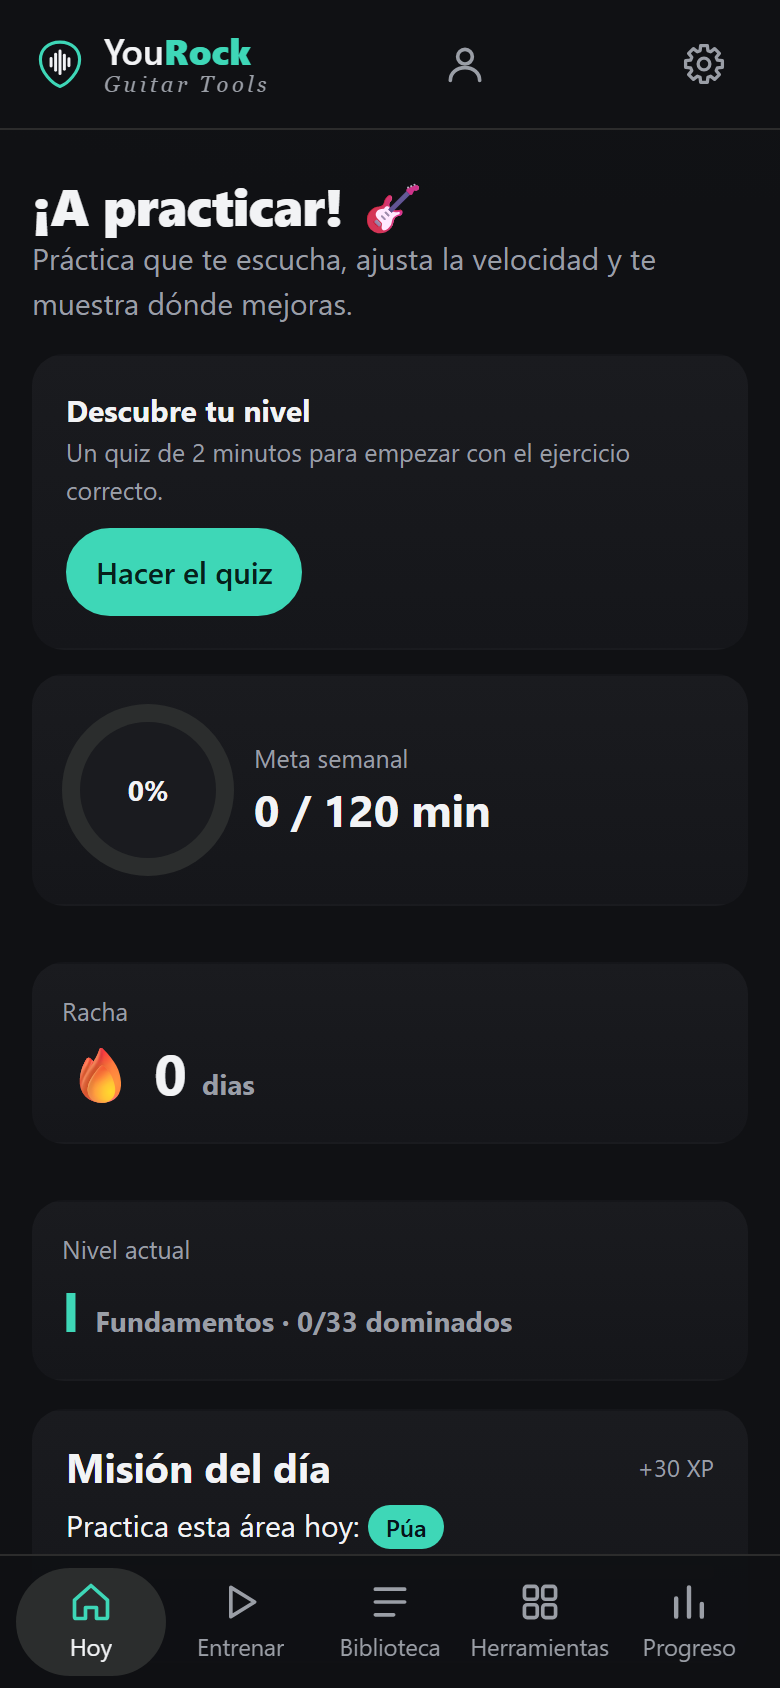
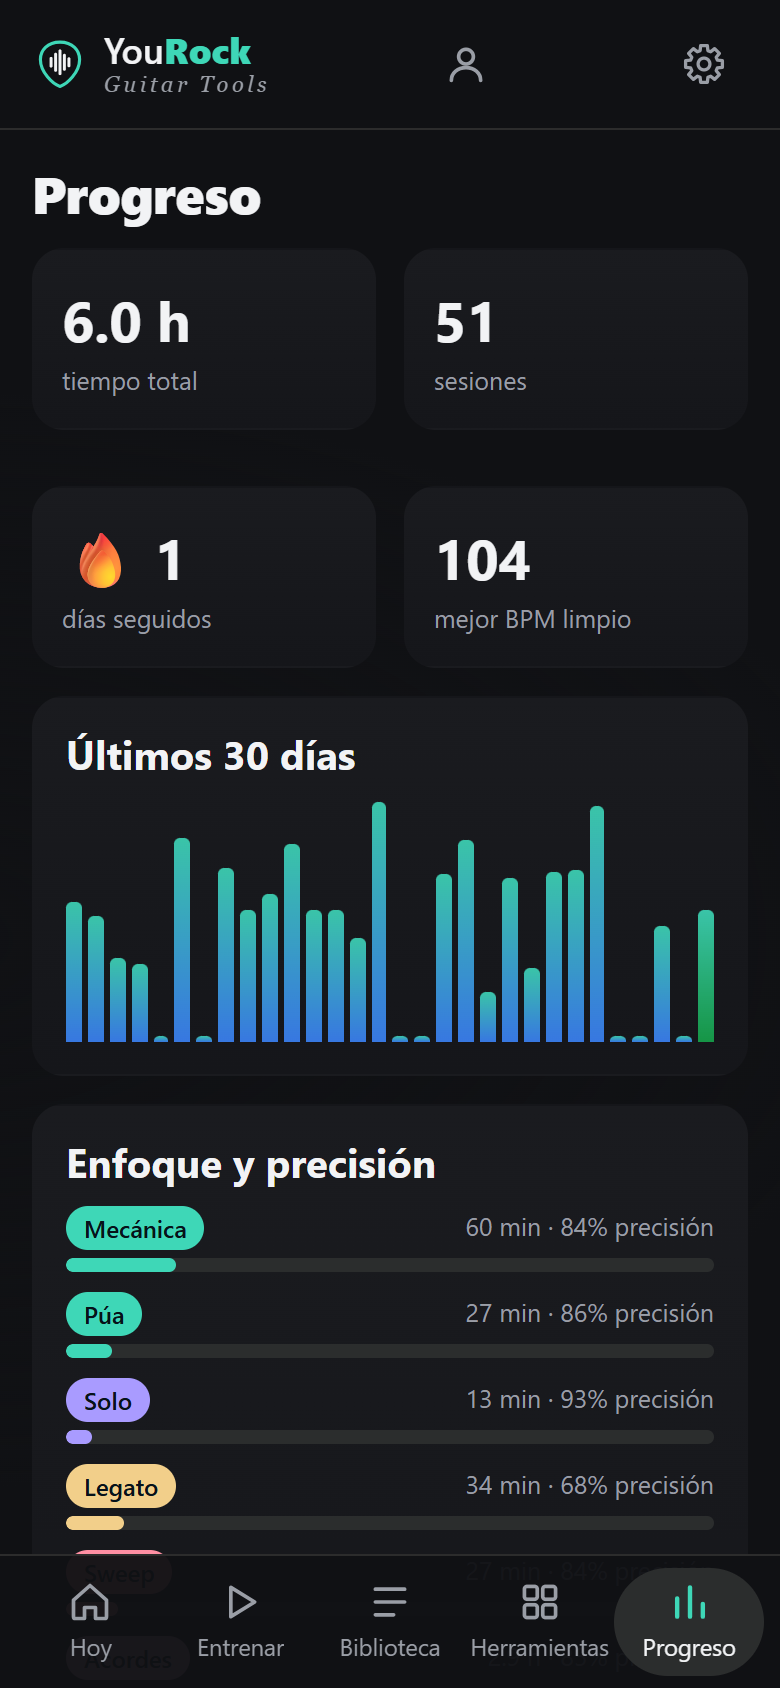
Landing YouRock: capturas corretas de Biblioteca e Progreso, botão play nos vídeos

diff --git a/yourock/landing/index.html b/yourock/landing/index.html
@@ -148,7 +148,11 @@ a:focus-visible,button:focus-visible,summary:focus-visible{outline:2px solid var
 .shots{display:grid;gap:16px;margin-top:40px;grid-template-columns:1fr}
 @media(min-width:768px){.shots{grid-template-columns:repeat(2,1fr);gap:24px}}
 @media(min-width:1024px){.shots{grid-template-columns:repeat(4,1fr)}}
-.phone video{display:block;width:100%;height:auto;border-radius:16px;background:var(--s2)}
+.phone video{display:block;width:100%;height:auto;border-radius:16px;background:var(--s2);cursor:pointer}
+.vwrap{position:relative}
+.vbtn{position:absolute;right:12px;bottom:12px;width:44px;height:44px;border-radius:9999px;border:1px solid var(--s4);background:rgba(24,24,24,.8);-webkit-backdrop-filter:blur(8px);backdrop-filter:blur(8px);color:var(--tx);display:grid;place-items:center;cursor:pointer;transition:transform .5s var(--ease),background-color .3s var(--ease)}
+.vbtn:hover{background:var(--s3);transform:scale(1.05)}
+.vbtn:active{transform:scale(.98)}
 .shots .phone{max-width:280px}
 .shots figcaption{margin-top:12px;text-align:center;color:var(--mu)}
 
@@ -443,6 +447,18 @@ const io = new IntersectionObserver(es => es.forEach(e => { if (e.isIntersecting
 document.querySelectorAll('.rv').forEach(el => io.observe(el));
 
 // vídeos: solo se reproducen visibles y nunca con "reducir movimiento"
+const ICON_PLAY = '<svg class="i" viewBox="0 0 24 24" aria-hidden="true"><path d="M8 5l11 7-11 7z"/></svg>';
+const ICON_PAUSE = '<svg class="i" viewBox="0 0 24 24" aria-hidden="true"><path d="M8 5v14M16 5v14"/></svg>';
+document.querySelectorAll('video.vid').forEach(v => {
+  const wrap = document.createElement('div'); wrap.className = 'vwrap';
+  v.parentNode.insertBefore(wrap, v); wrap.appendChild(v);
+  const b = document.createElement('button'); b.type = 'button'; b.className = 'vbtn'; wrap.appendChild(b);
+  const sync = () => { const p = v.paused; b.innerHTML = p ? ICON_PLAY : ICON_PAUSE; b.setAttribute('aria-label', p ? 'Reproducir demostración' : 'Pausar demostración'); };
+  v.addEventListener('play', sync); v.addEventListener('pause', sync); sync();
+  const toggle = () => { v.preload = 'auto'; v.paused ? v.play().catch(() => {}) : v.pause(); };
+  b.addEventListener('click', toggle); v.addEventListener('click', toggle);
+});
+// autoplay solo visible y nunca con "reducir movimiento"; el botón permite reproducir a mano
 if (!rm) {
   const vo = new IntersectionObserver(es => es.forEach(e => { const v = e.target; if (e.isIntersecting) { v.preload = 'auto'; v.play().catch(() => {}); } else v.pause(); }), { threshold: .25 });
   document.querySelectorAll('video.vid').forEach(v => vo.observe(v));
